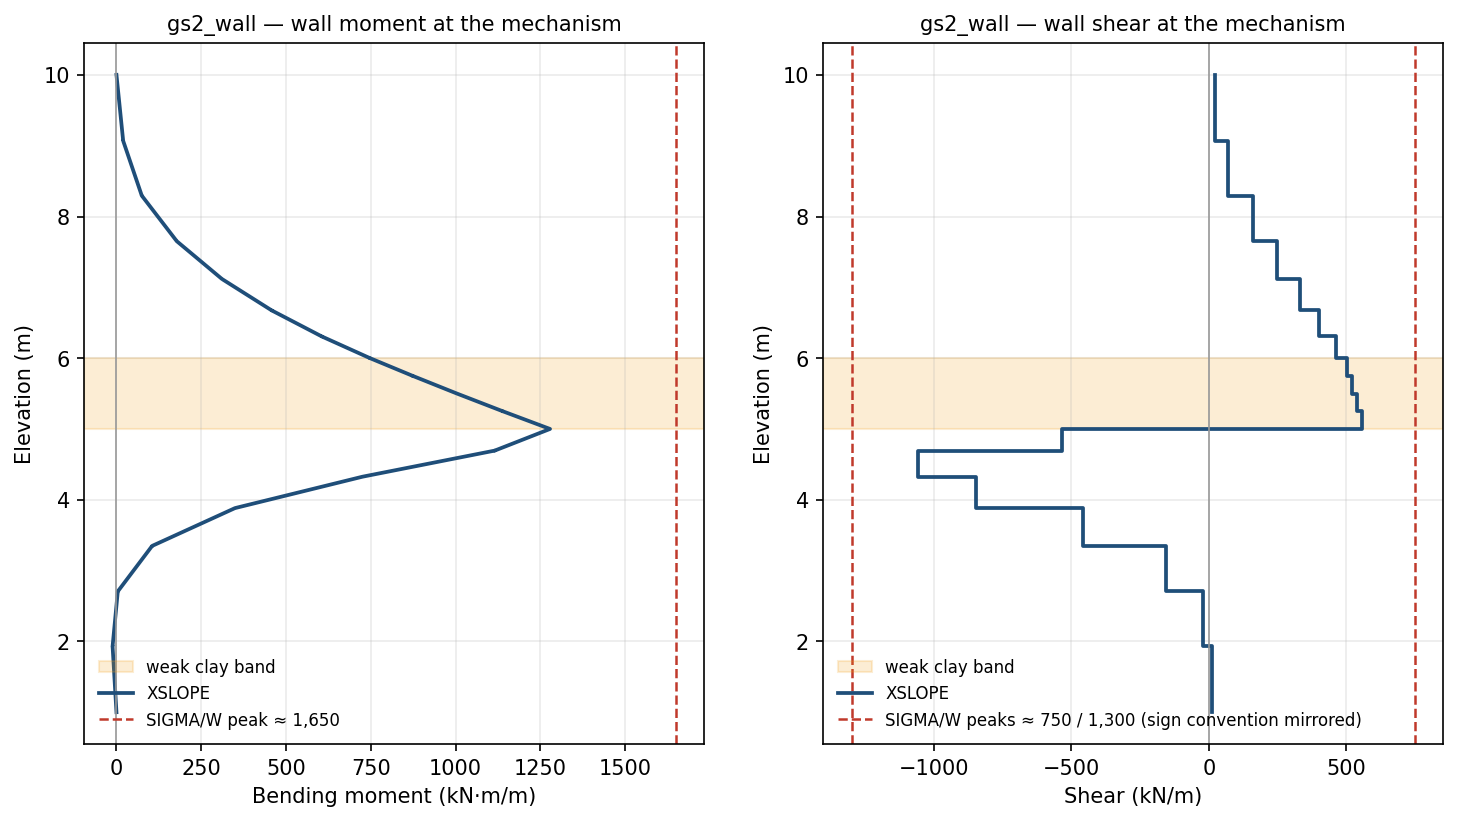
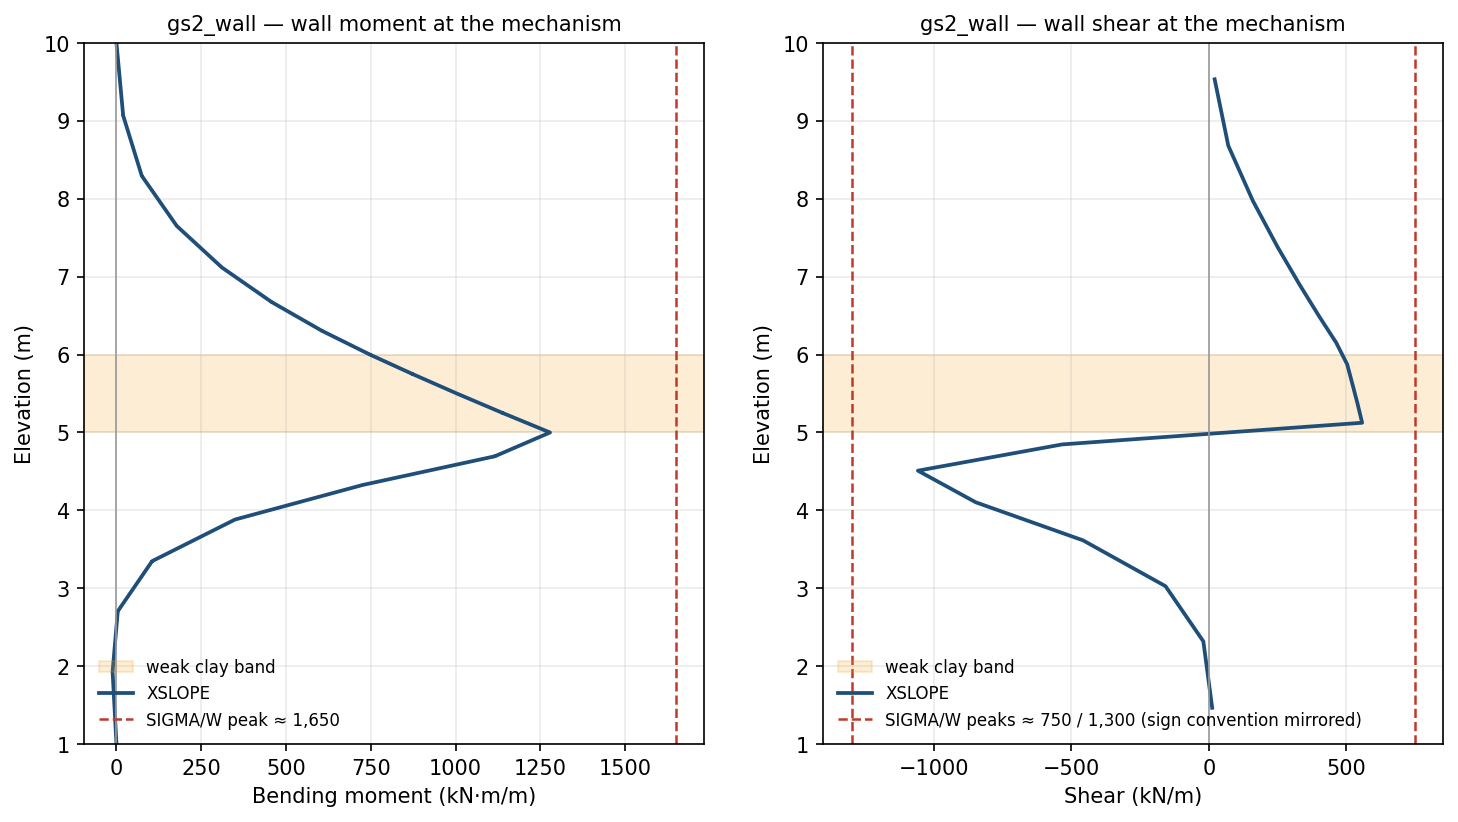
verification(geostudio): the wall shear profile is drawn the way the pile detail draws it
One shear per beam element, read at its center, plotted at the element
midpoint and joined; both panels span the wall's elevation.

Claude-Session: https://claude.ai/code/session_01XjjT2aBxw8gY7EFdpoUcpj

diff --git a/benchmarks/geostudio/make_gs2_wall_figures.py b/benchmarks/geostudio/make_gs2_wall_figures.py
@@ -128,9 +128,11 @@ def composite(stem):
 def _profile(fem_data, solution):
     """The wall's actions against elevation.
 
-    Each beam element carries a shear and a moment at each of its two ends; the
-    moment profile is the end moments in order down the wall, which is continuous
-    because adjacent elements share a node.
+    Each beam element carries a moment at each of its two ends and one shear,
+    read at the element center. The moment profile is the end moments in order
+    down the wall, continuous because adjacent elements share a node; the shear
+    profile is the center values at the element midpoints, joined -- the same
+    convention as ``plot_fem_details.plot_pile_detail``.
     """
     nodes = np.asarray(fem_data['nodes'])
     pairs = list(fem_data['pile_node_pairs'])
@@ -153,8 +155,8 @@ def _profile(fem_data, solution):
         # convention's nodal moment at end 1, and the nodal moment at end 2
         y_m += [ya, yb]
         m_vals += [-m1, m2]
-        y_v += [ya, yb]
-        v_vals += [V[p], V[p]]
+        y_v.append(0.5 * (ya + yb))
+        v_vals.append(V[p])
     return (np.array(y_m), np.array(m_vals), np.array(y_v), np.array(v_vals))
 
 
@@ -184,6 +186,9 @@ def forces(stem='gs2_wall'):
         ax.axhspan(5.0, 6.0, color='#f39c12', alpha=0.18, zorder=0,
                    label='weak clay band')
         ax.plot(vals, yy, '-', color='#1f4e79', lw=1.8, label='XSLOPE')
+        # both panels span the wall, though the shear samples stop half an
+        # element short of either end
+        ax.set_ylim(float(y_m.min()), float(y_m.max()))
         ax.axvline(0.0, color='0.6', lw=0.8)
         for xv, lb in pubs:
             ax.axvline(xv, color='#c0392b', ls='--', lw=1.2,
